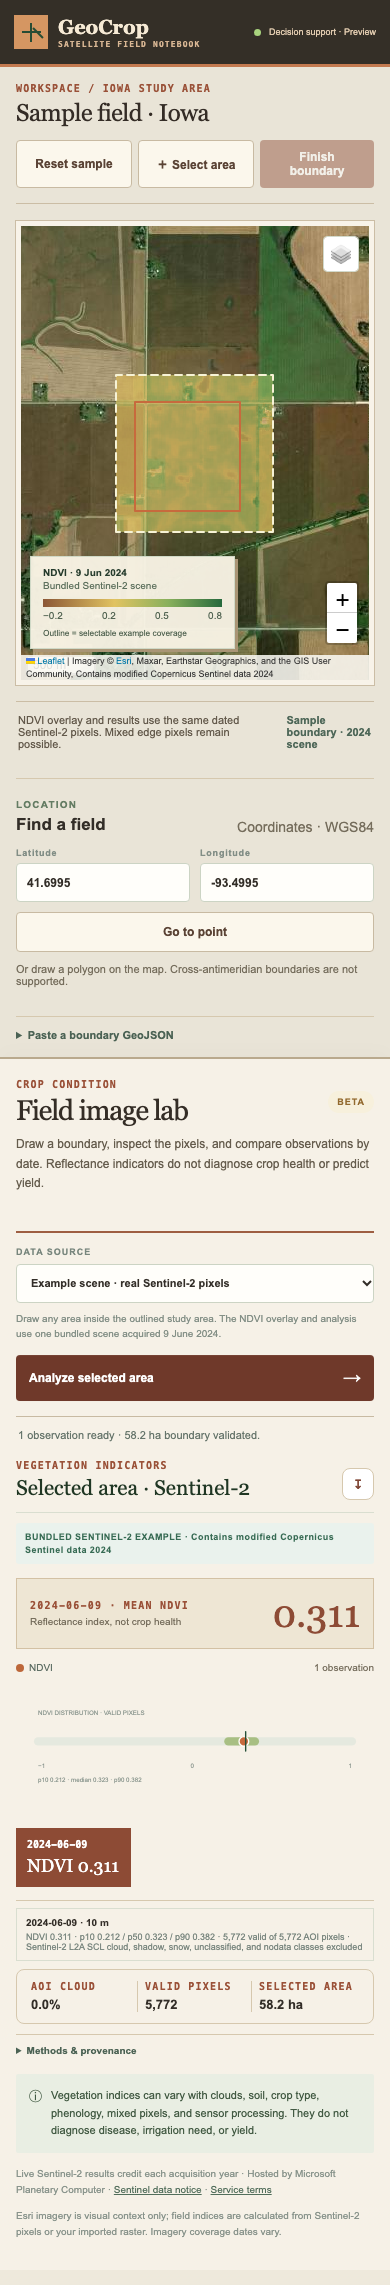
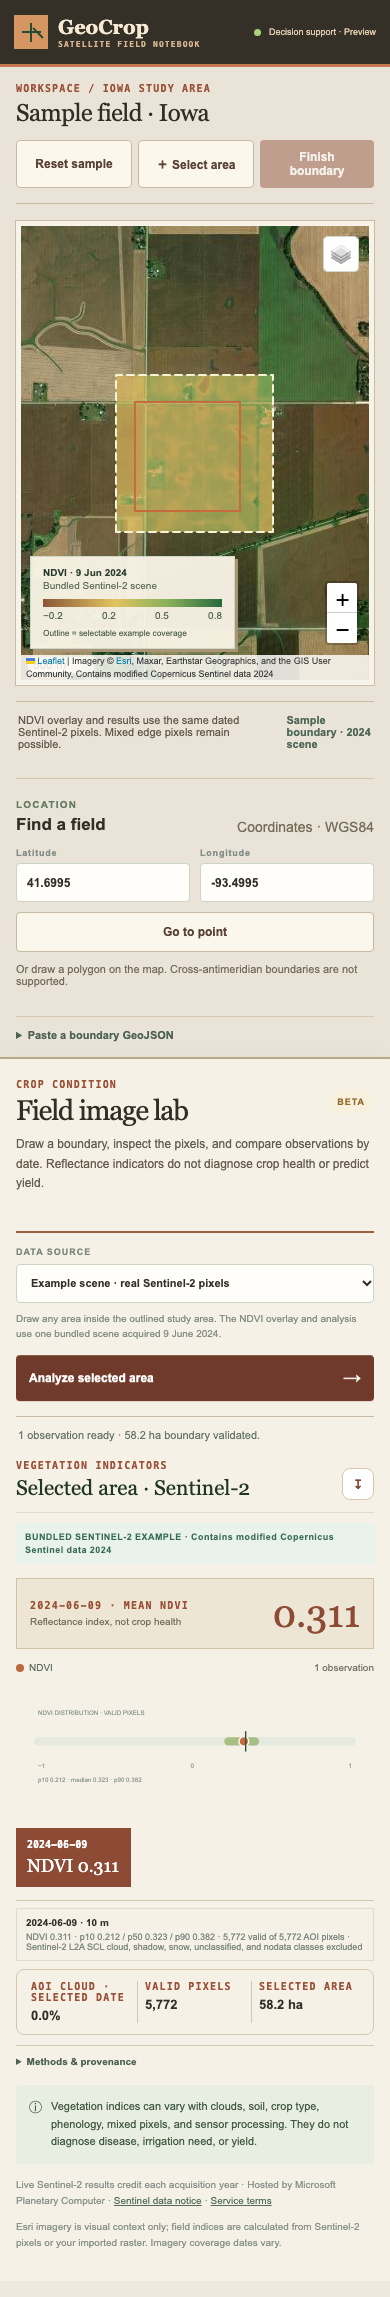
Keep selected scene metrics and provenance in sync

diff --git a/src/main.ts b/src/main.ts
@@ -730,26 +730,18 @@ function render(data: Result) {
   $("area-value").textContent =
     data.area_ha == null ? "—" : `${data.area_ha.toFixed(1)} ha`;
   $("cloud-label").textContent =
-    data.source === "synthetic-demo"
-      ? "MEAN AOI CLOUD"
-      : data.source === "live-sentinel-pixels" ||
-          data.source === "bundled-sentinel-example"
-        ? "AOI CLOUD"
-        : "CLOUD DATA";
-  const clouds = obs
-    .map((o) => o.cloud_percent)
-    .filter((x): x is number => x !== null);
-  $("cloud-value").textContent = clouds.length
-    ? `${(clouds.reduce((a, b) => a + b, 0) / clouds.length).toFixed(1)}%`
-    : "not provided";
+    data.source === "user-import"
+      ? "CLOUD DATA · SELECTED DATE"
+      : "AOI CLOUD · SELECTED DATE";
   $("pixel-value").textContent = obs.length
     ? (obs.at(-1)?.pixel_count ?? 0).toLocaleString()
     : "—";
   $("chart-range").textContent =
     `${obs.length} observation${obs.length === 1 ? "" : "s"}`;
-  drawChart(obs);
   const observationList = $("observation-list");
   observationList.replaceChildren();
+  const sceneList = $("scene-list");
+  sceneList.replaceChildren();
   const selectObservation = (index: number) => {
     const selected = obs[index];
     if (!selected) return;
@@ -760,6 +752,19 @@ function render(data: Result) {
         ? "not provided"
         : `${selected.cloud_percent.toFixed(1)}%`;
     $("pixel-value").textContent = selected.pixel_count.toLocaleString();
+    drawChart(obs, index);
+    const row = document.createElement("div");
+    row.className = "scene-row";
+    const title = document.createElement("strong");
+    title.textContent = `${selected.date} · ${selected.resolution_m ?? "unknown"} m`;
+    const meta = document.createElement("span");
+    meta.textContent =
+      data.source === "live-sentinel-pixels" ||
+      data.source === "bundled-sentinel-example"
+        ? `NDVI ${selected.ndvi?.toFixed(3) ?? "n/a"} · p10 ${selected.ndvi_percentiles?.p10.toFixed(3) ?? "n/a"} / p50 ${selected.ndvi_percentiles?.p50.toFixed(3) ?? "n/a"} / p90 ${selected.ndvi_percentiles?.p90.toFixed(3) ?? "n/a"} · ${selected.pixel_count.toLocaleString()} valid of ${(selected.pixel_count + (selected.masked_pixel_count || 0)).toLocaleString()} AOI pixels · ${selected.mask}`
+        : `Cloud ${selected.cloud_percent ?? "n/a"}% · nodata ${selected.nodata_percent ?? "not reported"}% · ${selected.mask}`;
+    row.append(title, meta);
+    sceneList.replaceChildren(row);
     observationList
       .querySelectorAll("button")
       .forEach((button, buttonIndex) => {
@@ -783,22 +788,7 @@ function render(data: Result) {
     observationList.append(button);
   }
   if (obs.length) selectObservation(obs.length - 1);
-  $("scene-list").replaceChildren();
-  if (obs.length) {
-    const latestObs = obs.at(-1)!;
-    const row = document.createElement("div");
-    row.className = "scene-row";
-    const title = document.createElement("strong");
-    title.textContent = `${latestObs.date} · ${latestObs.resolution_m ?? "unknown"} m`;
-    const meta = document.createElement("span");
-    meta.textContent =
-      data.source === "live-sentinel-pixels" ||
-      data.source === "bundled-sentinel-example"
-        ? `NDVI ${latestObs.ndvi?.toFixed(3)} · p10 ${latestObs.ndvi_percentiles?.p10.toFixed(3)} / p50 ${latestObs.ndvi_percentiles?.p50.toFixed(3)} / p90 ${latestObs.ndvi_percentiles?.p90.toFixed(3)} · ${latestObs.pixel_count.toLocaleString()} valid of ${(latestObs.pixel_count + (latestObs.masked_pixel_count || 0)).toLocaleString()} AOI pixels · ${latestObs.mask}`
-        : `Cloud ${latestObs.cloud_percent ?? "n/a"}% · nodata ${latestObs.nodata_percent ?? "not reported"}% · ${latestObs.mask}`;
-    row.append(title, meta);
-    $("scene-list").append(row);
-  }
+  if (!obs.length) drawChart(obs);
   $("provenance").replaceChildren();
   addProvenance(data.provenance || {});
   setFeedback(
@@ -816,7 +806,10 @@ function addProvenance(values: Record<string, unknown>) {
   }
 }
 
-function drawChart(observations: Observation[]) {
+function drawChart(
+  observations: Observation[],
+  selectedIndex = observations.length - 1,
+) {
   if (!observations.length) {
     $("chart").innerHTML =
       '<div class="empty-state">No scenes matched. Try another date range or use the demo fixture.</div>';
@@ -872,7 +865,7 @@ function drawChart(observations: Observation[]) {
   const nodes = observations
     .map(
       (o, i) =>
-        `<circle cx="${x(i)}" cy="${y(o.ndvi)}" r="3.5" fill="#c76a3d"><title>${safe(o.date)} NDVI ${o.ndvi?.toFixed(3)}</title></circle>${o.ndmi === null ? "" : `<circle cx="${x(i)}" cy="${y(o.ndmi)}" r="3" fill="#4f8874"><title>${safe(o.date)} NDMI ${o.ndmi?.toFixed(3)}</title></circle>`}`,
+        `<circle cx="${x(i)}" cy="${y(o.ndvi)}" r="${i === selectedIndex ? 6 : 3.5}" fill="#c76a3d" stroke="${i === selectedIndex ? "#332e28" : "none"}" stroke-width="2"><title>${safe(o.date)} NDVI ${o.ndvi?.toFixed(3)}</title></circle>${o.ndmi === null ? "" : `<circle cx="${x(i)}" cy="${y(o.ndmi)}" r="3" fill="#4f8874"><title>${safe(o.date)} NDMI ${o.ndmi?.toFixed(3)}</title></circle>`}`,
     )
     .join("");
   $("chart").innerHTML =

diff --git a/e2e/smoke.spec.ts b/e2e/smoke.spec.ts
@@ -35,7 +35,9 @@ test("bundled Sentinel example shows its coverage and exports selected pixels", 
   await expect(page.locator("#mean-ndvi")).not.toHaveText("—");
   await expect(page.locator("#chart svg")).toBeVisible();
   await expect(page.locator(".distribution-range")).toHaveAttribute("d", /H/);
-  await expect(page.locator("#cloud-label")).toHaveText("AOI CLOUD");
+  await expect(page.locator("#cloud-label")).toHaveText(
+    "AOI CLOUD · SELECTED DATE",
+  );
   await page.screenshot({
     path: "test-results/screenshot-desktop.png",
     fullPage: true,
@@ -196,7 +198,15 @@ test("synthetic time series remains labeled and hides the real-scene overlay", a
   const firstObservation = page.locator("#observation-list button").first();
   await firstObservation.click();
   await expect(firstObservation).toHaveAttribute("aria-pressed", "true");
-  await expect(page.locator("#ndvi-feature-label")).toContainText("MEAN NDVI");
+  const selectedDate = (await firstObservation.textContent())!.slice(0, 10);
+  await expect(page.locator("#ndvi-feature-label")).toContainText(selectedDate);
+  await expect(page.locator("#scene-list")).toContainText(selectedDate);
+  await expect(page.locator("#cloud-label")).toHaveText(
+    "AOI CLOUD · SELECTED DATE",
+  );
+  await expect(
+    page.locator('#chart circle[fill="#c76a3d"]').first(),
+  ).toHaveAttribute("r", "6");
 });
 
 test("keyboard-friendly GeoJSON entry selects a boundary", async ({ page }) => {
@@ -340,7 +350,9 @@ test("analyzes selected Sentinel scenes chronologically and exports scene proven
     .getByRole("button", { name: "Analyze selected scenes (max 5)" })
     .click();
   await expect(page.getByText(/MULTI-SCENE ANALYSIS/)).toBeVisible();
-  await expect(page.locator("#cloud-label")).toHaveText("AOI CLOUD");
+  await expect(page.locator("#cloud-label")).toHaveText(
+    "AOI CLOUD · SELECTED DATE",
+  );
   await expect(page.locator("#ndmi-legend")).toBeHidden();
   await expect(page.locator("#chart svg")).toBeVisible();
   const positions = await page

diff --git a/docs/frontend-audit.md b/docs/frontend-audit.md
@@ -1,0 +1,40 @@
+# Frontend release audit — GeoCrop satellite field notebook
+
+Checked 2026-10-23 against the previous committed redesign (`HEAD` before this release) and the current working build.
+
+## Product and information architecture
+
+- Primary user job: explore a labeled example, adjust or select the domain input, inspect a defensible result, and export enough provenance to reproduce it.
+- Reading order: Boundary selection and source provenance lead; vegetation metrics, scene series, and downloads follow.
+- Interaction corrected in this release: Selecting a scene updates headline NDVI, cloud and valid pixel metrics, scene details, and the chart marker from that scene.
+- Technical implementation: existing frontend and API architecture was retained. No new runtime dependency was added.
+
+## Evidence
+
+| Check                     | Result                                                                                                                                       |
+| ------------------------- | -------------------------------------------------------------------------------------------------------------------------------------------- |
+| Previous build JavaScript | 52715 gzip bytes                                                                                                                             |
+| Current build JavaScript  | 52737 gzip bytes (+22)                                                                                                                       |
+| Current build CSS         | 10841 gzip bytes                                                                                                                             |
+| Browser and API checks    | 10 browser tests passed, including real bundled Sentinel example, chronological scene selection, stale response handling, and mobile layout. |
+| Screenshots               | See the README linked desktop and mobile captures generated from the current browser flow.                                                   |
+
+Bundle measurements sum the compressed generated `assets/*.js` and `assets/*.css` files. They do not measure first-load latency, network transfer on a specific host, or main-thread work. The previous build was reproduced from the prior commit in an isolated temporary checkout with the same installed dependencies.
+
+## Accessibility and responsive review
+
+- Core controls use visible labels or accessible names. The new selection state uses native buttons/slider controls or an explicit map clear button.
+- Browser checks exercise the core flow and phone/tablet widths; existing full-page screenshots are kept with the repo.
+- Data remain available in text, tables, or exports when charts or maps cannot be interpreted.
+- A formal WCAG audit with assistive technology and automated contrast/axe tooling has not been completed. This remains a release follow-up before claiming accessibility conformance.
+
+## Scientific and operational limits
+
+NDVI is a reflectance index, not a yield estimate or agronomic diagnosis. Live catalog and imagery depend on third-party availability. No screenshot, synthetic example, or model output is evidence of field validation. Public hosting and external data availability are tracked in the README/deployment docs.
+
+## Release checks
+
+- [x] Displayed selection and chart/data agree in browser tests.
+- [x] Existing unit/API tests and production build pass.
+- [x] Responsive browser workflow passes.
+- [ ] Repeat a manual screen-reader review and public-host latency measurement after deployment.

diff --git a/README.md b/README.md
@@ -1,5 +1,7 @@
 # GeoCrop
 
+[Frontend release audit](docs/frontend-audit.md)
+
 GeoCrop is a responsive satellite field notebook for exploring vegetation indicators over a field boundary. Its default selectable example uses bundled, dated Sentinel-2 pixels. It is decision support, not agronomic diagnosis or yield prediction.
 
 **Live demo:** [geocrop-three.vercel.app](https://geocrop-three.vercel.app)
